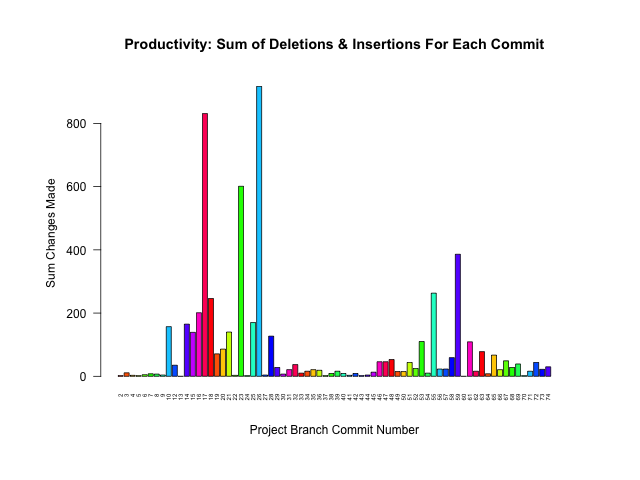
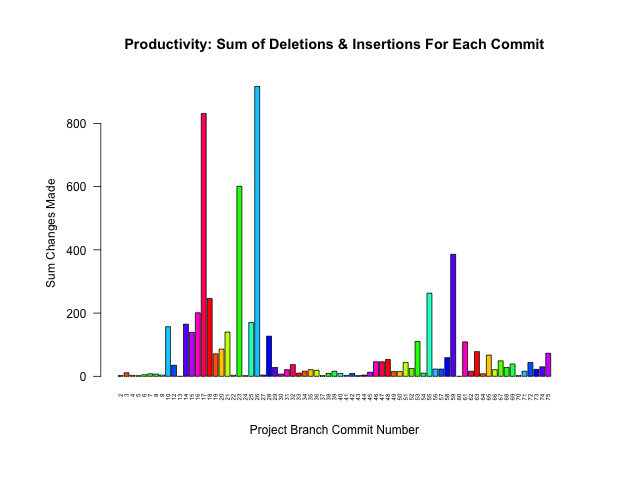
COMMIT #175

Changed region(s): [[0.25, 0.1875, 0.875, 0.8438]]

diff --git a/README.md b/README.md
@@ -17,11 +17,11 @@ ProjectName::BranchName.data
 
 Project Name | Last Updated | # Commits | # Branches | Branches Merged
 :---|:---:|:---:|:---:|:---:
+[minishell](https://github.com/pierremigeon/minishell)                                              |  2023-05-20  |  75   |  8  |  75%   (6/8)
 [learn_some_C.Plus.Plus](https://github.com/pierremigeon/learn_some_C.Plus.Plus)                    |  2023-05-19  |  18   |  1  |  100%  (1/1)
+[commit_tracker](https://github.com/pierremigeon/commit_tracker)                                    |  2023-05-19  |  174  |  1  |  100%  (1/1)
 [libft](https://github.com/pierremigeon/libft)                                                      |  2023-05-18  |  25   |  2  |  50%   (1/2)
-[commit_tracker](https://github.com/pierremigeon/commit_tracker)                                    |  2023-05-18  |  173  |  1  |  100%  (1/1)
 [FASTQ_examiner](https://github.com/pierremigeon/FASTQ_examiner)                                    |  2023-05-12  |  68   |  4  |  50%   (2/4)
-[minishell](https://github.com/pierremigeon/minishell)                                              |  2023-05-09  |  74   |  8  |  75%   (6/8)
 [ft_printf](https://github.com/pierremigeon/ft_printf)                                              |  2023-01-27  |  36   |  2  |  100%  (2/2)
 [test_non-fastforward_merge-push](https://github.com/pierremigeon/test_non-fastforward_merge-push)  |  2023-01-27  |  15   |  2  |  50%   (1/2)
 

diff --git a/minishell_project/readme.md b/minishell_project/readme.md
@@ -1,2 +1,1 @@
-
-![test_image](https://github.com/pierremigeon/commit_tracker/blob/master/minishell_project/minishell::master.data_sum_barplot.png)
+![test_image](https://github.com/pierremigeon/commit_tracker/blob/master/minishell_project/minishell::history.data_sum_barplot.png)
